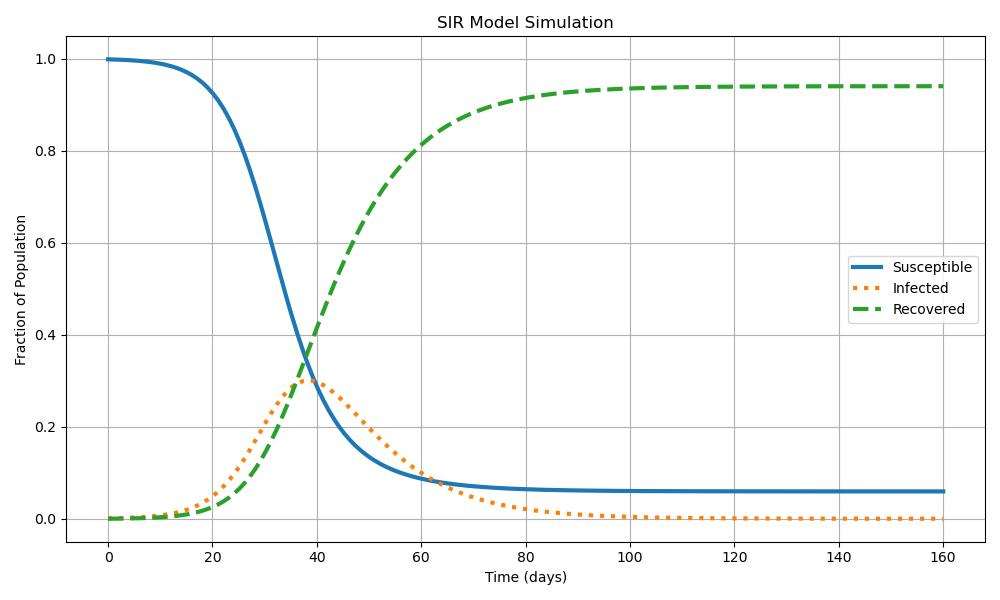
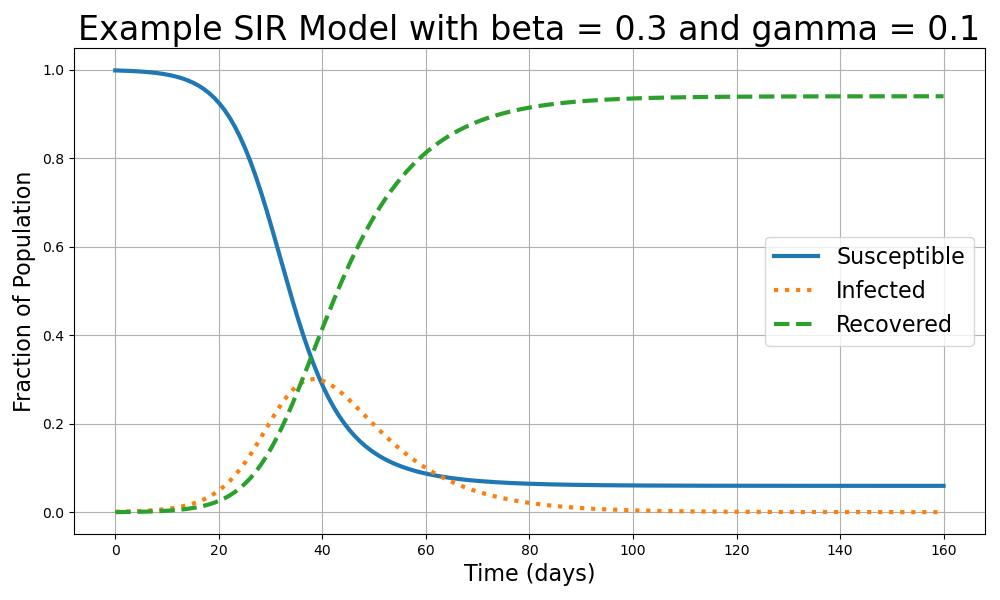
Made copy of library. Implementing new SIRP model

diff --git a/library copy.py b/library copy.py
@@ -75,43 +75,67 @@ def calculate_ejection_probabilities(radii, mean_step):
     
     return ejection_probabilities
 
+# you can forget this function!
+@njit
+def bomb_test(
+    time,
+    delta_time,
+    generations,
+    initial_neutrons,
+    fission_rate,
+    ejection_rate
+    ):
+    neutron_storage = [0.0 for i in range(generations)]
+    neutron_storage[0] = initial_neutrons
+
+    for t in range(0, time, delta_time):
+        neutron_storage[-1] = (neutron_storage[-1] + 
+                               ejection_rate * sum(neutron_storage[:-1]))
+        for i in range(generations - 1, 0, -1):
+            neutron_storage[i] = (neutron_storage[i] + 
+                                  neutron_storage[i - 1] * fission_rate * k_number() - 
+                                  neutron_storage[i] * ejection_rate - 
+                                  neutron_storage[i] * fission_rate)
+        neutron_storage[0] = (neutron_storage[0] - 
+                              neutron_storage[0] * ejection_rate - 
+                              neutron_storage[0] * fission_rate)
+    
+    return neutron_storage
+
 def real_bomb_odes(state, fission_rate, ejection_rate):
     S, I, R, P = state
     dSdt = -(fission_rate) * S * I
     dIdt = (fission_rate * k_number()) * S * I - (ejection_rate) * I
     dRdt = ejection_rate * (I)
-    dPdt = fission_rate * S * I #counting the fissions, not neutrons produced!
-    return np.array([dSdt, dIdt, dRdt, dPdt])
+    return np.array([dSdt, dIdt, dRdt])
 
 def euler_real_bomb_solver(initial_conditions, 
                            fission_rate, 
                            ejection_rate, 
                            total_time, 
                            dt):
-    Si, Ii, Ri, Pi = initial_conditions
+    G1i, G2i, Ei = initial_conditions
     t_start = 0.0
     t_final = total_time
 
     t = np.arange(t_start, t_final + dt, dt)
     num_steps = len(t)
 
-    S = np.zeros(num_steps)
-    I = np.zeros(num_steps)
-    R = np.zeros(num_steps)
-    P = np.zeros(num_steps)
+    G1 = np.zeros(num_steps)
+    G2 = np.zeros(num_steps)
+    E = np.zeros(num_steps)
 
-    S[0], I[0], R[0], P[0] = Si, Ri, Ii, Pi
+    G1[0], G2[0], E[0] = G1i, G2i, Ei
 
     for i in range(num_steps - 1):
-        current_state = np.array([S[i], R[i], I[i], P[i]])
+        current_state = np.array([G1[i], G2[i], E[i]])
         derivatives = real_bomb_odes(current_state, fission_rate, ejection_rate)
 
-        S[i + 1] = S[i] + dt * derivatives[0]
-        R[i + 1] = R[i] + dt * derivatives[1]
-        I[i + 1] = I[i] + dt * derivatives[2]
-        P[i + 1] = P[i] + dt * derivatives[3]
+        G1[i + 1] = G1[i] + dt * derivatives[0]
+        G2[i + 1] = G2[i] + dt * derivatives[1]
+        E[i + 1] = E[i] + dt * derivatives[2]
 
-    return t, S, R, I, P
+    return t, G1, G2, E
 
 
 def chain_odes(state, fission_rate, ejection_rate):

diff --git a/final_project.py b/final_project.py
@@ -2,7 +2,6 @@
 # My method of solving was ODEs and numerical solutions.
 
 import library # I made this!
-import numpy as np
 import matplotlib.pyplot as plt
 import math
 
@@ -10,10 +9,11 @@ import math
 # This in turn determines the rate at which neutrons leave the spherical bomb.
 
 # Find ejection probabilities based on radius and mfp
-radii_to_test = [i for i in range(1,5)] # list generation
+radii_to_test = [i for i in range(1,51, 5)] # list generation
 uranium_density = 4.8 * (10**(22)) # 1/cm^3
 uranium_cross_section = 1.2 * (10**(-24)) # cm^2
 
+# mean_free_path is average length before fission
 mean_free_path = -1/(uranium_cross_section * uranium_density) * math.log(1/2)
 print(mean_free_path)
 
@@ -34,8 +34,8 @@ print('eject probability', probability_to_eject)
 
 time_span = 10**(-6) # 1 µs
 time_step = 10 * (10**(-9)) # 10 ns
-n_neutrons = 1 * 1000 * 1
-n_generations = 20
+n_neutrons = 1 * 1000 * 1 # start with 1000
+n_generations = 20 # go up to 20 generations
 
 initial_state = [n_neutrons] # starter neutrons
 for i in range(n_generations - 1): # make room for more generations if needed.
@@ -73,3 +73,9 @@ for radius, probability in enumerate(probability_to_eject):
     plt.legend()
     plt.tight_layout()
     plt.show()
+
+# now, let's do the same test but with the simple ODE method!
+# uses "real_bomb_odes" function
+
+# using the same method as the SIR_Example, but we have a more complicated state
+

diff --git a/SIR_example.py b/SIR_example.py
@@ -37,10 +37,10 @@ plt.figure(figsize=(10,6))
 plt.plot(t, S, label='Susceptible', linestyle = '-', linewidth = 3)
 plt.plot(t, I, label='Infected', linestyle = ':', linewidth = 3)
 plt.plot(t, R, label='Recovered', linestyle = '--', linewidth = 3)
-plt.xlabel('Time (days)')
-plt.ylabel('Fraction of Population')
-plt.title('SIR Model Simulation')
-plt.legend()
+plt.xlabel('Time (days)', size = 16)
+plt.ylabel('Fraction of Population', size = 16)
+plt.title('Example SIR Model with beta = 0.3 and gamma = 0.1', size = 24)
+plt.legend(fontsize = 16)
 plt.grid(True)
 plt.tight_layout()
 
